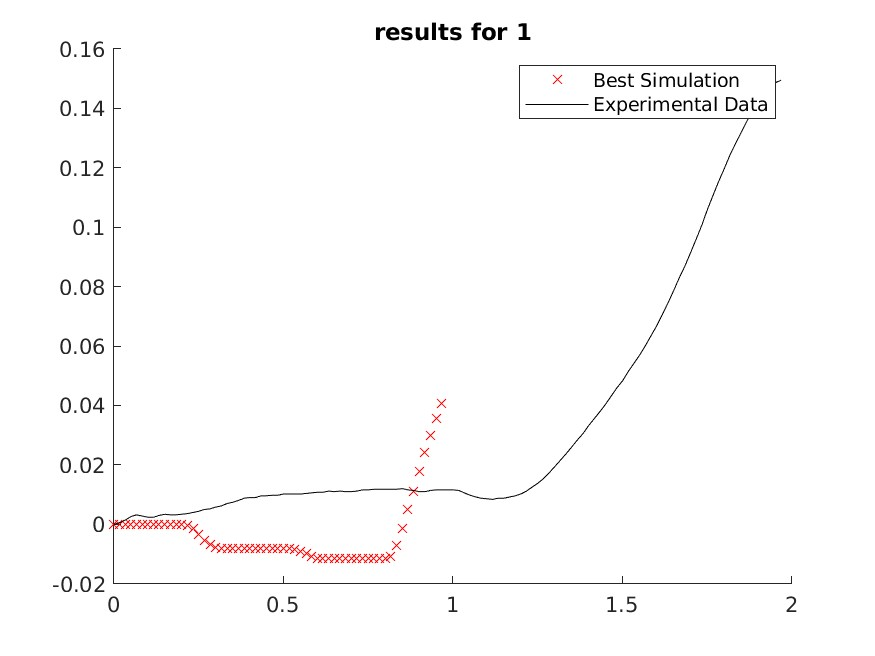
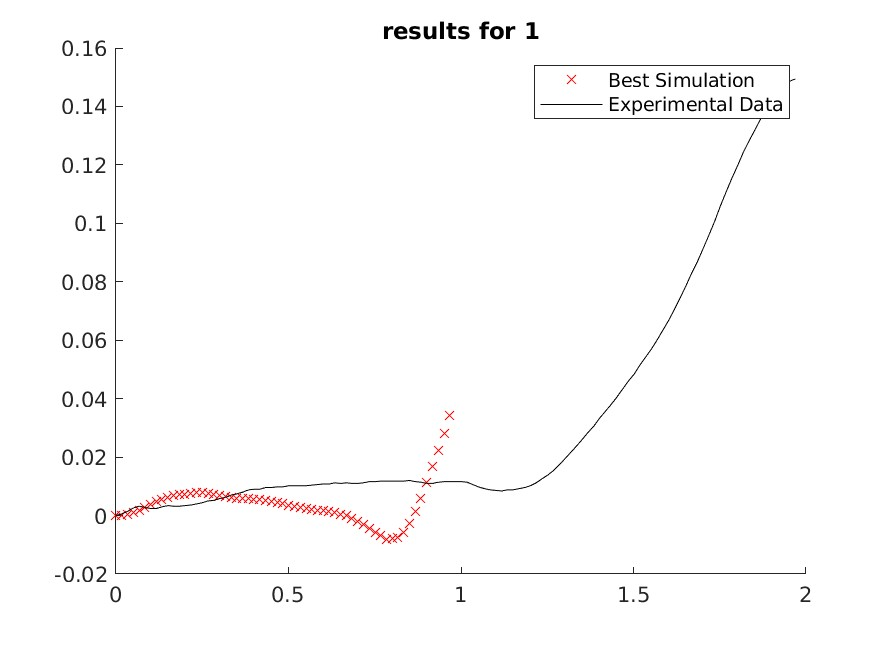
Completed solving!

diff --git a/unifiedfriction_simulation.m b/unifiedfriction_simulation.m
@@ -389,7 +389,7 @@ end
 function [value,isterminal,direction] = swim_event_func(t,q, tstart, Fnormal)
 global TooLong
 
-maxTime = 2;
+maxTime = 10;
 
 if toc(tstart) >= maxTime
 
@@ -481,13 +481,13 @@ obj.SimulationInfo.params.Fbuoy_hip_y = obj.SimulationInfo.params.rho*obj.Simula
 
 % finwidth, muk, kp_ang, kd_ang, mus, epsilonV
 obj.PSOInfo.LB= [0 0 70 3 0 1e-5];
-obj.PSOInfo.UB= [2 2 80 10 3 1e-3];
+obj.PSOInfo.UB= [2 2 90 10 3 1e-3];
 % obj.PSOInfo.LB= [0 1 72 7 0 1e-5];
 % obj.PSOInfo.UB= [1 2 74 8 3 1e-3];
 numparticles = 16;
 % init_points = ones([numparticles, 6]) .* [8.18/100 1.0 73 7.2 1.5 1e-4] ;
 init_points = [];
-obj.PSOInfo.options = optimoptions('particleswarm', 'SwarmSize', numparticles, 'UseParallel', true, 'InitialPoints', init_points, 'MaxIterations', 50);
+obj.PSOInfo.options = optimoptions('particleswarm', 'SwarmSize', numparticles, 'UseParallel', true, 'InitialPoints', init_points, 'MaxIterations', 100);
 % obj.PSOInfo.options = optimoptions('particleswarm', 'SwarmSize', numparticles, 'UseParallel', true, 'InitialPoints', init_points);
 % obj.PSOInfo.options = optimoptions('particleswarm', 'SwarmSize', numparticles, 'UseParallel', false, 'InitialPoints', init_points, 'MaxIterations', 1);
 obj.PSOInfo.nvars = 6;
